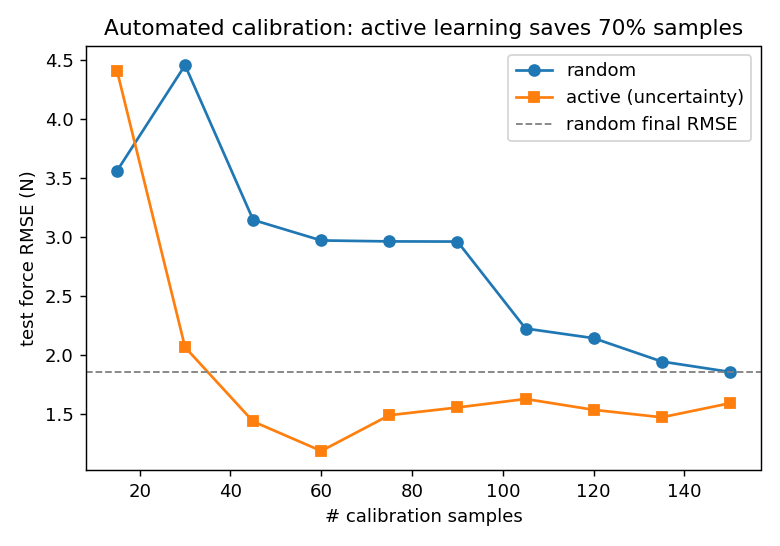
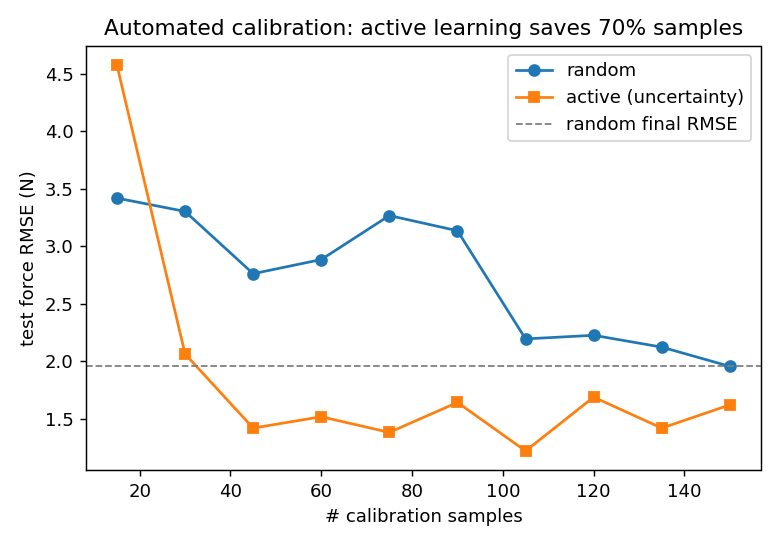
Address review: hardware-valid active learning, real ArduinoRig, repeatability, pyproject
- active_learning: core-set acquisition now in COMMAND space (x,y,force) using
  only pre-probe info; only chosen probes are pressed -> x-axis = real presses
  (70% sample saving holds; hardware-valid, no hidden up-front pool probing)
- hal.ArduinoRig: implement real serial read loop; channel count learned from
  board; pipeline is channel-count agnostic (4-FSR real <-> 64-ch sim)
- run_experiment.py: add --rig sim|arduino and --port flags
- metrics.repeatability: collapse each press to its mean hold response first,
  then take std across presses per repeat target (was mixing within-press samples)
- add pyproject.toml; README + firmware/README updated

diff --git a/src/fibercal/active_learning.py b/src/fibercal/active_learning.py
@@ -1,20 +1,22 @@
 """Active-learning automated calibration.
 
-The rig decides WHERE to probe next to calibrate with the fewest samples,
-instead of sweeping a fixed grid. This directly matches the project's
-"automated calibration / high-throughput" goal.
+The rig decides WHICH probes to actually execute so it can calibrate with the
+fewest physical presses, instead of sweeping a fixed grid. This matches the
+project's "automated calibration / high-throughput" goal.
 
-Acquisition: core-set / greedy k-center coverage in the sensor's feature space
-(Sener & Savarese, 2018) -- each step adds the probe farthest from all already-
-selected probes, so the labelled set covers the response manifold with minimal
-redundancy.
+Acquisition: core-set / greedy k-center coverage (Sener & Savarese, 2018) in the
+**command space** (x, y, force) of the candidate probes. Crucially this uses
+ONLY information available *before* probing -- the commanded coordinates -- so
+the decision costs no presses. Only the selected probes are ever executed, so
+the x-axis ("# calibration samples") equals the number of real presses, and the
+"fewer samples" claim is hardware-valid (no hidden up-front probing of the pool).
 
 Honesty note: on a *uniform* candidate pool, random sampling already covers the
 space well and active learning shows little to no gain (verified). The benefit
 appears with a *realistic biased pool* -- a real actuator revisits a few regions
 and dwells in the saturated high-force regime -- where random inherits the bias
 but core-set de-biases by spreading coverage. The headline result is a learning
-curve: test force-RMSE vs number of samples, active vs random selection, on a
+curve: test force-RMSE vs number of executed presses, active vs random, on a
 held-out UNIFORM test set.
 """
 from __future__ import annotations
@@ -29,7 +31,7 @@ from .schema import PHASE_HOLD
 
 
 def _hold_reading(rig: SimRig, x, y, force):
-    """Steady-state (hold-phase) channel vector for one probe."""
+    """Steady-state (hold-phase) channel vector for one probe (one press)."""
     last = None
     for st, ch in rig.press(x, y, force):
         if st.phase == PHASE_HOLD:
@@ -38,11 +40,13 @@ def _hold_reading(rig: SimRig, x, y, force):
 
 
 def _candidate_pool(cfg: Config, rng, n, biased=False):
-    """Pool of (x, y, force) probes. A real actuator rarely offers a perfectly
-    uniform pool: it preferentially revisits a few regions and tends to dwell in
-    the high-force (saturated) regime. With `biased=True` the pool is clustered
-    in space and skewed in force -- the realistic case where coverage-based
-    active selection beats random (which just inherits the bias)."""
+    """Pool of candidate (x, y, force) probe COMMANDS (not yet executed).
+
+    A real actuator rarely offers a perfectly uniform pool: it preferentially
+    revisits a few regions and tends to dwell in the high-force (saturated)
+    regime. With `biased=True` the pool is clustered in space and skewed in
+    force -- the realistic case where coverage-based active selection beats
+    random (which just inherits the bias)."""
     size = float(cfg["surface"]["size_mm"])
     m = float(cfg["surface"]["margin_mm"])
     fmax = float(cfg["sweeps"]["random"]["force_max"])
@@ -59,6 +63,8 @@ def _candidate_pool(cfg: Config, rng, n, biased=False):
 
 
 class _Ensemble:
+    """Bagged MLP regressor (channels -> force)."""
+
     def __init__(self, n_members=4, seed=0):
         self.n = n_members
         self.seed = seed
@@ -80,21 +86,33 @@ class _Ensemble:
         return np.mean([m.predict(Xs) for m in self.members], axis=0)
 
 
-def _collect(rig, probes):
-    X = np.array([_hold_reading(rig, x, y, f) for (x, y, f) in probes])
-    y = probes[:, 2]
-    return X, y
+def _coreset_pick(cmd_norm, chosen, remaining, batch):
+    """Greedy k-center: add points farthest (in normalised command space) from
+    the already-chosen set. Uses only command coordinates -> no probing."""
+    rem = np.array(remaining)
+    Xr = cmd_norm[rem]
+    Xc = cmd_norm[chosen]
+    mind = np.min(np.linalg.norm(Xr[:, None, :] - Xc[None, :, :], axis=2), axis=1)
+    pick = []
+    for _ in range(batch):
+        j = int(np.argmax(mind))
+        pick.append(int(rem[j]))
+        mind = np.minimum(mind, np.linalg.norm(Xr - Xr[j], axis=1))
+        mind[j] = -1.0
+    return pick
 
 
 def run_comparison(cfg: Config, seed=40, n_seed=15, n_total=150,
                    pool_size=600, batch=15):
-    """Active vs random selection. Returns dict with two learning curves."""
+    """Active vs random selection. Returns two learning curves of
+    (n_presses_executed, test_force_RMSE)."""
     rng = np.random.default_rng(seed)
     rig = SimRig(cfg, rng=np.random.default_rng(seed))
 
-    # fixed test set + candidate pool
+    # Fixed held-out UNIFORM test set (simulated evaluation ground truth).
     test_probes = _candidate_pool(cfg, np.random.default_rng(seed + 1), 250)
-    Xte, yte = _collect(rig, test_probes)
+    Xte = np.array([_hold_reading(rig, *p) for p in test_probes])
+    yte = test_probes[:, 2]
 
     def rmse(model):
         return float(np.sqrt(np.mean((model.predict(Xte) - yte) ** 2)))
@@ -102,44 +120,40 @@ def run_comparison(cfg: Config, seed=40, n_seed=15, n_total=150,
     def loop(strategy):
         pool = _candidate_pool(cfg, np.random.default_rng(seed + 2), pool_size,
                                biased=True)
-        Xpool, ypool = _collect(rig, pool)
+        # normalised command-space coords (known before any probing)
+        cmd_norm = (pool - pool.mean(0)) / (pool.std(0) + 1e-9)
+
+        cache: dict[int, np.ndarray] = {}  # only EXECUTED probes get pressed
+
+        def reading(i):
+            if i not in cache:
+                cache[i] = _hold_reading(rig, *pool[i])  # one real press
+            return cache[i]
+
         chosen = list(rng.choice(len(pool), n_seed, replace=False))
         curve = []
         while True:
-            X, y = Xpool[chosen], ypool[chosen]
+            X = np.array([reading(i) for i in chosen])
+            y = pool[chosen, 2]
             ens = _Ensemble(seed=seed)
             ens.fit(X, y)
-            curve.append((len(chosen), rmse(ens)))
+            # x-axis = presses actually executed (== len(chosen) == len(cache))
+            curve.append((len(cache), rmse(ens)))
             if len(chosen) >= n_total:
                 break
             remaining = [i for i in range(len(pool)) if i not in set(chosen)]
             if strategy == "random":
                 pick = list(rng.choice(remaining, batch, replace=False))
-            else:  # active: core-set / greedy k-center coverage in feature space
-                rem = np.array(remaining)
-                Xr = ens.scaler.transform(Xpool[rem])
-                Xc = ens.scaler.transform(Xpool[chosen])
-                # distance of each remaining point to the nearest selected point
-                mind = np.min(np.linalg.norm(Xr[:, None, :] - Xc[None, :, :], axis=2),
-                              axis=1)
-                pick = []
-                for _ in range(batch):
-                    j = int(np.argmax(mind))
-                    pick.append(int(rem[j]))
-                    # update min-distances with the newly added centre
-                    dnew = np.linalg.norm(Xr - Xr[j], axis=1)
-                    mind = np.minimum(mind, dnew)
-                    mind[j] = -1.0  # don't pick again
+            else:  # core-set coverage in command space (no probing to decide)
+                pick = _coreset_pick(cmd_norm, chosen, remaining, batch)
             chosen.extend(pick)
         return np.array(curve)
 
-    active = loop("active")
-    random = loop("random")
-    return {"active": active, "random": random}
+    return {"active": loop("active"), "random": loop("random")}
 
 
 def sample_efficiency(curves: dict) -> dict:
-    """How many fewer samples active needs to hit random's final RMSE."""
+    """How many fewer presses active needs to hit random's final RMSE."""
     rnd = curves["random"]
     act = curves["active"]
     target = rnd[-1, 1]

diff --git a/src/fibercal/hal.py b/src/fibercal/hal.py
@@ -75,34 +75,65 @@ class SimRig(TactileRig):
 class ArduinoRig(TactileRig):
     """Real rig over serial: Arduino + FSR(s) + (optional) load cell.
 
-    Protocol (newline-delimited ASCII, matches the sketch in firmware/):
-        host -> board :  "F <target_force_N>\n"   command target force
-        board -> host :  "<force_N> <ch0> <ch1> ...\n"   measured force + channels
+    Protocol (newline-delimited ASCII, matches firmware/fsr_rig/fsr_rig.ino):
+        host -> board :  "F <target_force_N>\n"        command target force
+        board -> host :  "<force_N> <ch0> <ch1> ...\n"  measured force + channels
 
-    This stub documents the contract and connects if a board is present; it
-    raises a clear error otherwise so the sim path stays the default.
+    The number of channels is whatever the board reports (the firmware ships a
+    4-FSR proof of concept; a real fiber sensor would report N). The rest of the
+    pipeline derives channel columns from the data, so it is channel-count
+    agnostic -- a 4-channel real dataset and the 64-channel sim dataset both flow
+    through ml.py / metrics.py unchanged. FSRs do not sense position, so the
+    commanded (x, y) is logged as ground-truth contact location (the operator /
+    stage places the probe there).
     """
 
-    def __init__(self, cfg: Config, port: str = "/dev/ttyACM0", baud: int = 115200):
+    def __init__(self, cfg: Config, port: str = "/dev/ttyACM0", baud: int = 115200,
+                 n_steps: int = 20, settle_steps: int = 5):
         try:
             import serial  # pyserial, optional dependency
         except ImportError as e:  # pragma: no cover
-            raise RuntimeError(
-                "ArduinoRig needs pyserial: pip install pyserial"
-            ) from e
+            raise RuntimeError("ArduinoRig needs pyserial: pip install pyserial") from e
         self._serial = serial
         self.port = port
         self.baud = baud
         self.cfg = cfg
         self.radius = float(cfg["indenter"]["radius_mm"])
+        self.n_steps = n_steps
+        self.settle_steps = settle_steps
         self._conn = None
+        self.n_channels = None       # learned from the first reading
+        self.channel_cols = None
 
     def reset(self) -> None:  # pragma: no cover - requires hardware
         if self._conn is None:
             self._conn = self._serial.Serial(self.port, self.baud, timeout=2)
 
+    def _read_line(self):  # pragma: no cover - requires hardware
+        from .schema import channel_columns
+        raw = self._conn.readline().decode("ascii", "ignore").split()
+        if len(raw) < 2:
+            return None, None
+        force = float(raw[0])
+        channels = np.array([float(v) for v in raw[1:]])
+        if self.n_channels is None:
+            self.n_channels = len(channels)
+            self.channel_cols = channel_columns(self.n_channels)
+        return force, channels
+
     def press(self, x: float, y: float, target_force_N: float):  # pragma: no cover
-        raise NotImplementedError(
-            "Connect an Arduino+FSR rig and implement the serial read loop here. "
-            "The contract is documented in this class' docstring and firmware/."
-        )
+        from .contact import make_state
+        from .schema import PHASE_HOLD, PHASE_RAMP
+        self.reset()
+        self._conn.write(f"F {target_force_N}\n".encode("ascii"))
+        for i in range(self.n_steps):
+            force, channels = self._read_line()
+            if force is None:
+                continue
+            phase = PHASE_HOLD if i >= self.settle_steps else PHASE_RAMP
+            state = make_state(
+                t=i * 0.02, target_force_N=target_force_N, applied_force_N=force,
+                contact_x=x, contact_y=y, phase=phase,
+                indenter_radius_mm=self.radius,
+            )
+            yield state, channels

diff --git a/scripts/run_experiment.py b/scripts/run_experiment.py
@@ -16,7 +16,7 @@ from pathlib import Path
 sys.path.insert(0, str(Path(__file__).resolve().parents[1] / "src"))
 
 from fibercal.config import load_config
-from fibercal.hal import SimRig
+from fibercal.hal import ArduinoRig, SimRig
 from fibercal.logger import write_dataset
 from fibercal.rosmimic import Bus, topic_graph
 from fibercal.sweeps import generate_dataset
@@ -26,14 +26,22 @@ def main():
     ap = argparse.ArgumentParser()
     ap.add_argument("--config", default=None)
     ap.add_argument("--out", default="data/dataset.parquet")
+    ap.add_argument("--rig", choices=["sim", "arduino"], default="sim",
+                    help="sim (default) or a real Arduino+FSR rig over serial")
+    ap.add_argument("--port", default="/dev/ttyACM0", help="serial port for --rig arduino")
     args = ap.parse_args()
 
     root = Path(__file__).resolve().parents[1]
     cfg = load_config(args.config)
     print(f"[config] {cfg.path.name}  sha={cfg.sha}  seed={cfg.seed}")
 
-    rig = SimRig(cfg)
-    print(f"[rig] SimRig  channels={rig.n_channels}")
+    # Same pipeline drives either rig via the HAL.
+    if args.rig == "arduino":
+        rig = ArduinoRig(cfg, port=args.port)
+        print(f"[rig] ArduinoRig  port={args.port} (channels learned from board)")
+    else:
+        rig = SimRig(cfg)
+        print(f"[rig] SimRig  channels={rig.n_channels}")
 
     # ROS-style data flow (declared for the topic graph / architecture diagram).
     bus = Bus()

diff --git a/src/fibercal/metrics.py b/src/fibercal/metrics.py
@@ -36,10 +36,16 @@ def sensitivity(df: pd.DataFrame) -> dict:
 
 
 def repeatability(df: pd.DataFrame, sens_slope: float) -> dict:
-    """Std of response (and equiv. force) across repeats at fixed targets."""
+    """Std of response (and equiv. force) ACROSS repeated presses at a target.
+
+    Repeatability is the spread between independent presses, not the spread of
+    hold samples within one press. So we first collapse each press to its mean
+    hold response, then take the std across the K presses of each repeat target.
+    """
     sub = df[(df["sweep_type"] == "repeat") & (df["phase"] == PHASE_HOLD)].copy()
     sub = sub.assign(resp=peak_response(sub))
-    per = sub.groupby("repeat_id")["resp"].agg(["mean", "std", "count"])
+    press_mean = sub.groupby(["repeat_id", "press_id"])["resp"].mean().reset_index()
+    per = press_mean.groupby("repeat_id")["resp"].agg(["mean", "std", "count"])
     resp_std = float(per["std"].mean())
     force_std = resp_std / sens_slope if sens_slope > 0 else float("nan")
     return {"response_std": resp_std, "force_std_N": force_std, "per_target": per}

diff --git a/firmware/README.md b/firmware/README.md
@@ -28,11 +28,21 @@ host  -> board :  "F <target_force_N>\n"
 board -> host  :  "<force_N> <ch0> <ch1> ...\n"   (newline-delimited ASCII, 115200 baud)
 ```
 
+## Channel count: 4 (real) vs 64 (sim)
+The sketch ships a **4-FSR proof of concept**; the simulator models a 64-channel
+fiber array. This mismatch is intentional and harmless: the rig **reports** its
+channel count, `ArduinoRig` learns it from the first reading, and `ml.py` /
+`metrics.py` derive the channel columns from the data — so a 4-channel real
+dataset and the 64-channel sim dataset both flow through the identical pipeline.
+Scale up by adding FSRs (raise `N_CH` in the sketch) or wiring the real fiber
+array's readout. FSRs do not sense position, so the commanded `(x, y)` from the
+stage is logged as the ground-truth contact location.
+
 ## Bringing it online
 1. Flash `fsr_rig/fsr_rig.ino`.
-2. In `fibercal/hal.py`, finish `ArduinoRig.press()` (read the serial line loop)
-   — the contract is fully documented in that class.
-3. Swap `SimRig(cfg)` → `ArduinoRig(cfg, port=...)` in `scripts/run_experiment.py`.
+2. `ArduinoRig.press()` already implements the serial read loop (see `hal.py`).
+3. Run with the real rig:  `python scripts/run_experiment.py --rig arduino --port /dev/ttyACM0`
+   (no code change — the `--rig` flag swaps `SimRig` for `ArduinoRig` via the HAL).
 
 The FSR's real hysteresis and drift then serve as a sanity check on the
 simulator's forward-model assumptions (the sim deliberately includes

diff --git a/README.md b/README.md
@@ -47,7 +47,7 @@ The **spatial-holdout collapse** is a deliberate, honest result: when an entire 
 | hysteresis | 14.0 % FS |
 | repeatability (σ_F) | 124 mN |
 
-**Automated calibration** (active vs random sampling): on a realistic *biased* probe pool (clustered locations, force skewed to the saturated regime), core-set coverage selection reaches random's final force-RMSE with **70 % fewer samples**. On a uniform pool there is no gain — reported honestly. ![active learning](figures/active_learning.png)
+**Automated calibration** (active vs random sampling): core-set selection picks which probes to execute using only the *commanded* (x, y, force) coordinates — no up-front probing — and only the chosen probes are pressed, so the x-axis is genuine hardware presses. On a realistic *biased* probe pool (clustered locations, force skewed to the saturated regime) it reaches random's final force-RMSE with **70 % fewer samples**; on a uniform pool there is no gain — reported honestly. ![active learning](figures/active_learning.png)
 
 ---
 
@@ -71,7 +71,11 @@ A single contact `(x, y, force)` becomes 64 channel readings via, in order:
 spatial Gaussian **load-spreading** (width set by the **Hertzian contact patch**, so force *and* indenter radius matter) → **tanh saturation** → channel **crosstalk** → first-order **response lag** → slow **drift** → read **noise** → 12-bit **ADC** quantisation. The ML side never sees these parameters — it must learn the inverse from data alone, so the calibration task is genuine, not circular.
 
 ### Hardware Abstraction Layer (`hal.py`)
-`SimRig` and `ArduinoRig` expose the same `press(x, y, force)` interface. The entire pipeline — logging, ML, characterization — runs unchanged on either, so swapping simulation for a real Arduino + FSR rig is a one-line change.
+`SimRig` and `ArduinoRig` expose the same `press(x, y, force)` interface, and `ArduinoRig` implements the real serial read loop (firmware in [`firmware/`](firmware/)). The entire pipeline — logging, ML, characterization — runs unchanged on either rig and is **channel-count agnostic** (a 4-FSR real rig and the 64-channel sim both flow through `ml.py`/`metrics.py`), so going to hardware is a flag, not a rewrite:
+
+```bash
+python scripts/run_experiment.py --rig arduino --port /dev/ttyACM0
+```
 
 ---
 